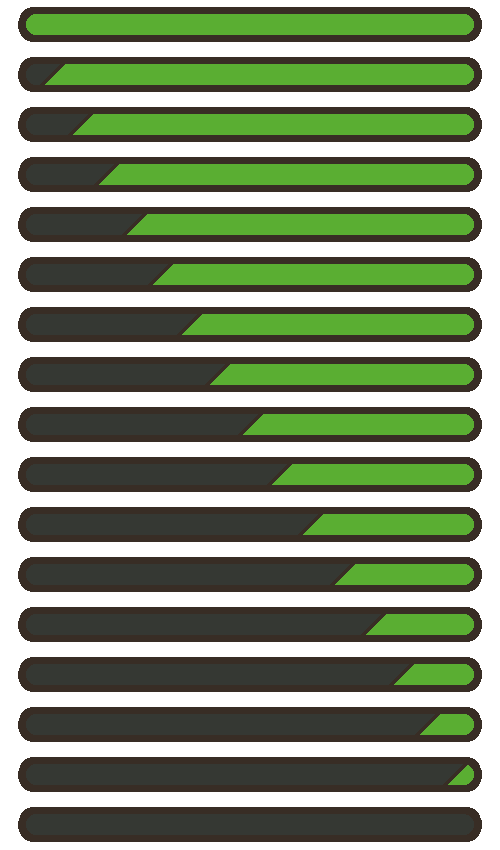
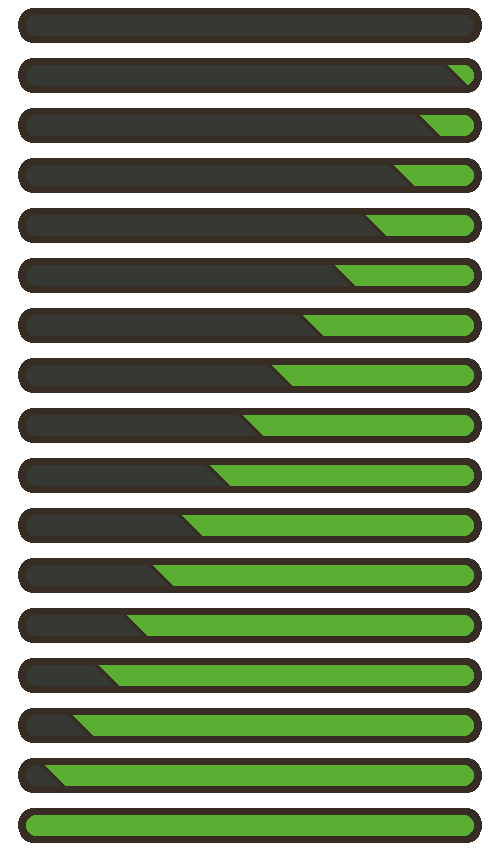
Implemented visuals for Healthbar

Changed region(s): [[0.03, 0.4282, 0.96, 1.0], [0.06, 0.0, 0.96, 0.3365], [0.36, 0.3671, 0.66, 0.3976]]

diff --git a/assets/js/script.js b/assets/js/script.js
@@ -31,13 +31,14 @@ let player2;
 let keyboard;
 let healthbarPlayer1;
 let healthbarPlayer2;
+let healthbarSprite;
 
 function preload() {
     console.log("preload called");
     this.load.image('sky', 'assets/media/pvpbackground.jpg');
     this.load.image('ground', 'assets/media/ground.png');
     this.load.image('dude', 'assets/media/player.jpg');
-
+    this.load.spritesheet('healthbar','assets/media/healthbar.png',{frameWidth:490,frameHeight:50});
     this.load.spritesheet('cowboy','assets/media/cowboy.png',{frameWidth: 500,frameHeight: 500});
 
 }
@@ -53,12 +54,14 @@ function create() {
     platform.create(400, 580, 'ground').setScale(1).refreshBody();
 
 
-    player1 = new Player(150,450,config.player1,this);
-    player2 = new Player(350,450,config.player2,this);
+    player1 = new Player(150,450,90,config.player1,this);
+    player2 = new Player(350,450,700,config.player2,this);
     player1.setCollisionWith(platform);
     player1.setCollisionWith(player2.playerSprite);
     player2.setCollisionWith(platform);
     player2.setCollisionWith(player1.playerSprite);
+
+
 
     healthbarPlayer1 = this.add.text(10,10,player1.name+"\nHealth "+player1.healthBar.getHealth(),{
         color:"black",
@@ -151,6 +154,9 @@ function update() {
     $("body").keypress(handlePlayer1Keys);
 
 
+    //healthbar
+    player1.healthBar.updateHealthbar();
+    player2.healthBar.updateHealthbar();
     healthbarPlayer1.setText(player1.name+"\nHealth "+player1.healthBar.getHealth());
     healthbarPlayer2.setText(player2.name+"\nHealth "+player2.healthBar.getHealth());
 

diff --git a/assets/js/model.js b/assets/js/model.js
@@ -8,10 +8,11 @@ let Context = {
         return this.context;
     }
 };
-let HealthBar = function(){
-    this.healthBarImage = null;
+let HealthBar = function(xPos,yPos,scene){
+    this.healthBarSprite = scene.add.sprite(xPos,yPos,'healthbar').setScale(0.35);
+    this.healthBarSprite.setFrame(16);
     this.incrValue = 5;
-    this.maxHealth = 100;
+    this.maxHealth = 160;
     this.currentHealth = this.maxHealth;
     this.getHealth = function(){
         return this.currentHealth +" : "+this.maxHealth;
@@ -31,12 +32,15 @@ let HealthBar = function(){
         } else {
             return false;
         }
-    }
+    };
+    this.updateHealthbar = function(){
+        this.healthBarSprite.setFrame(parseInt(this.currentHealth/10));
+    };
 };
 
-let Player = function(xPos,yPos,config,scene){
+let Player = function(xPos,yPos,healthbarXPos,config,scene){
     //console.log(this);
-    this.healthBar = new HealthBar();
+    this.healthBar = new HealthBar(healthbarXPos,70,scene);
     this.name=config.name;
     this.config=config;
     this.playerSprite=scene.physics.add.sprite(xPos,yPos,'cowboy').setScale(0.2).setBounce(0.2).setCollideWorldBounds(true);
